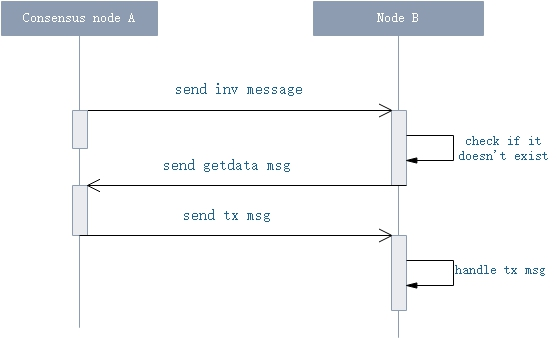
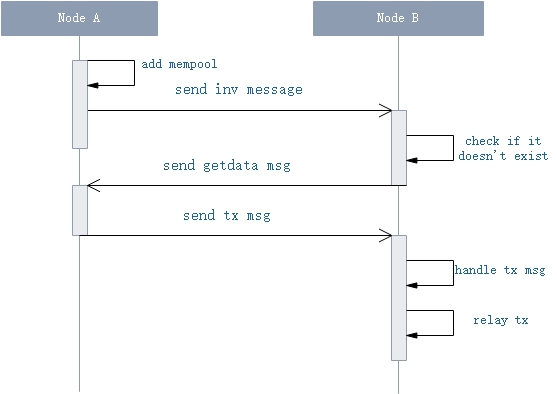
review tx

diff --git a/Documentation/articles/consensus/consensus_algorithm.md b/Documentation/articles/consensus/consensus_algorithm.md
@@ -45,7 +45,7 @@
 
    1. 加载内存池交易
 
-   2. 加载[`IPolicyPlugin`](https://github.com/neo-project/neo-plugins)插件，对交易进行排序和过滤
+   2. 加载[`IPolicyPlugin`插件](https://github.com/neo-project/neo-plugins)，对交易进行排序和过滤。(其中，每个区块500笔交易，免费20笔交易，是在插件中完成过滤)
    
    3. 计算总交易的网络手续费（`= input.GAS - output.GAS - 交易系统费 `)，将其作为当前议长的`MinerTransaction`奖励。
    
@@ -99,6 +99,7 @@
 [2] [共识机制图解](http://docs.neo.org/zh-cn/basic/consensus/consensus.html)<br/>
 [3] [Practical Byzantine Fault Tolerance](http://pmg.csail.mit.edu/papers/osdi99.pdf)<br/>
 [4] [The Byzantine Generals Problem](https://www.microsoft.com/en-us/research/wp-content/uploads/2016/12/The-Byzantine-Generals-Problem.pdf)<br/>
+[5] [Consensus Plugin](https://github.com/neo-project/neo-plugins)
 
 
 

diff --git a/Documentation/articles/consensus/consensus_protocol.md b/Documentation/articles/consensus/consensus_protocol.md
@@ -77,7 +77,7 @@
 
   4. 共识节点收到`getdata`消息后，则发送`consenus`消息给对方。
 
-  5. 节点收到`consensus`消息后，则触发共识模块对消息处理。
+  5. 节点收到`consensus`消息后，则触发共识模块对消息处理, 以及转发该共识消息
 
 
 ### inv 消息格式
@@ -193,7 +193,6 @@
  
    1. 重置共识过程
 
-
 6. **New Tx** 事件处理
 
     1. 若是挖矿交易，则忽略。（挖矿交易是直接附在`PrepareRequest`消息中，不需要单独进行广播该交易）
@@ -205,3 +204,5 @@
     4. 若交易不在待打包block里面的，则忽略
 
     5. 将交易收下，放到待打包的block里
+
+<a name="6_tx_handler"/>
